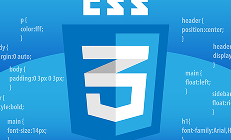
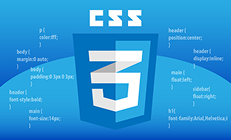
fix: 문제풀이 카드 외곽선 및 CSS 썸네일 수정

diff --git a/src/app/(app)/problem/_components/ProblemCard.tsx b/src/app/(app)/problem/_components/ProblemCard.tsx
@@ -22,7 +22,7 @@ export default function ProblemCard({ problemSet }: ProblemCardProps) {
   return (
     <Link
       href={`/problem/${problemSet.id}`}
-      className="group bg-bg-white block h-[250px] w-[231px] overflow-hidden rounded-[8px] border border-gray-400 shadow-none transition-shadow duration-200 hover:shadow-[0_4px_10px_rgba(0,0,0,0.10)] focus-visible:shadow-[0_4px_10px_rgba(0,0,0,0.10)] focus-visible:outline-none"
+      className="group bg-bg-white block h-[250px] w-[231px] overflow-hidden rounded-[8px] border border-gray-300 shadow-none transition-shadow duration-200 hover:shadow-[0_4px_10px_rgba(0,0,0,0.10)] focus-visible:shadow-[0_4px_10px_rgba(0,0,0,0.10)] focus-visible:outline-none"
     >
       <div className="relative h-[140px] w-full overflow-hidden">
         <Image
@@ -30,7 +30,7 @@ export default function ProblemCard({ problemSet }: ProblemCardProps) {
           alt={`${problemSet.title} 썸네일`}
           fill
           sizes="231px"
-          className="object-cover transition-transform duration-200 ease-out group-hover:scale-105 group-focus-visible:scale-105"
+          className="scale-100 object-cover transition-transform duration-200 ease-out group-hover:scale-105 group-focus-visible:scale-105"
         />
 
         <span className="bg-bg-white absolute top-[12px] left-[12px] flex h-[24px] w-[38px] items-center justify-center rounded-[50px] text-[12px] leading-[24px] font-bold text-gray-950">
